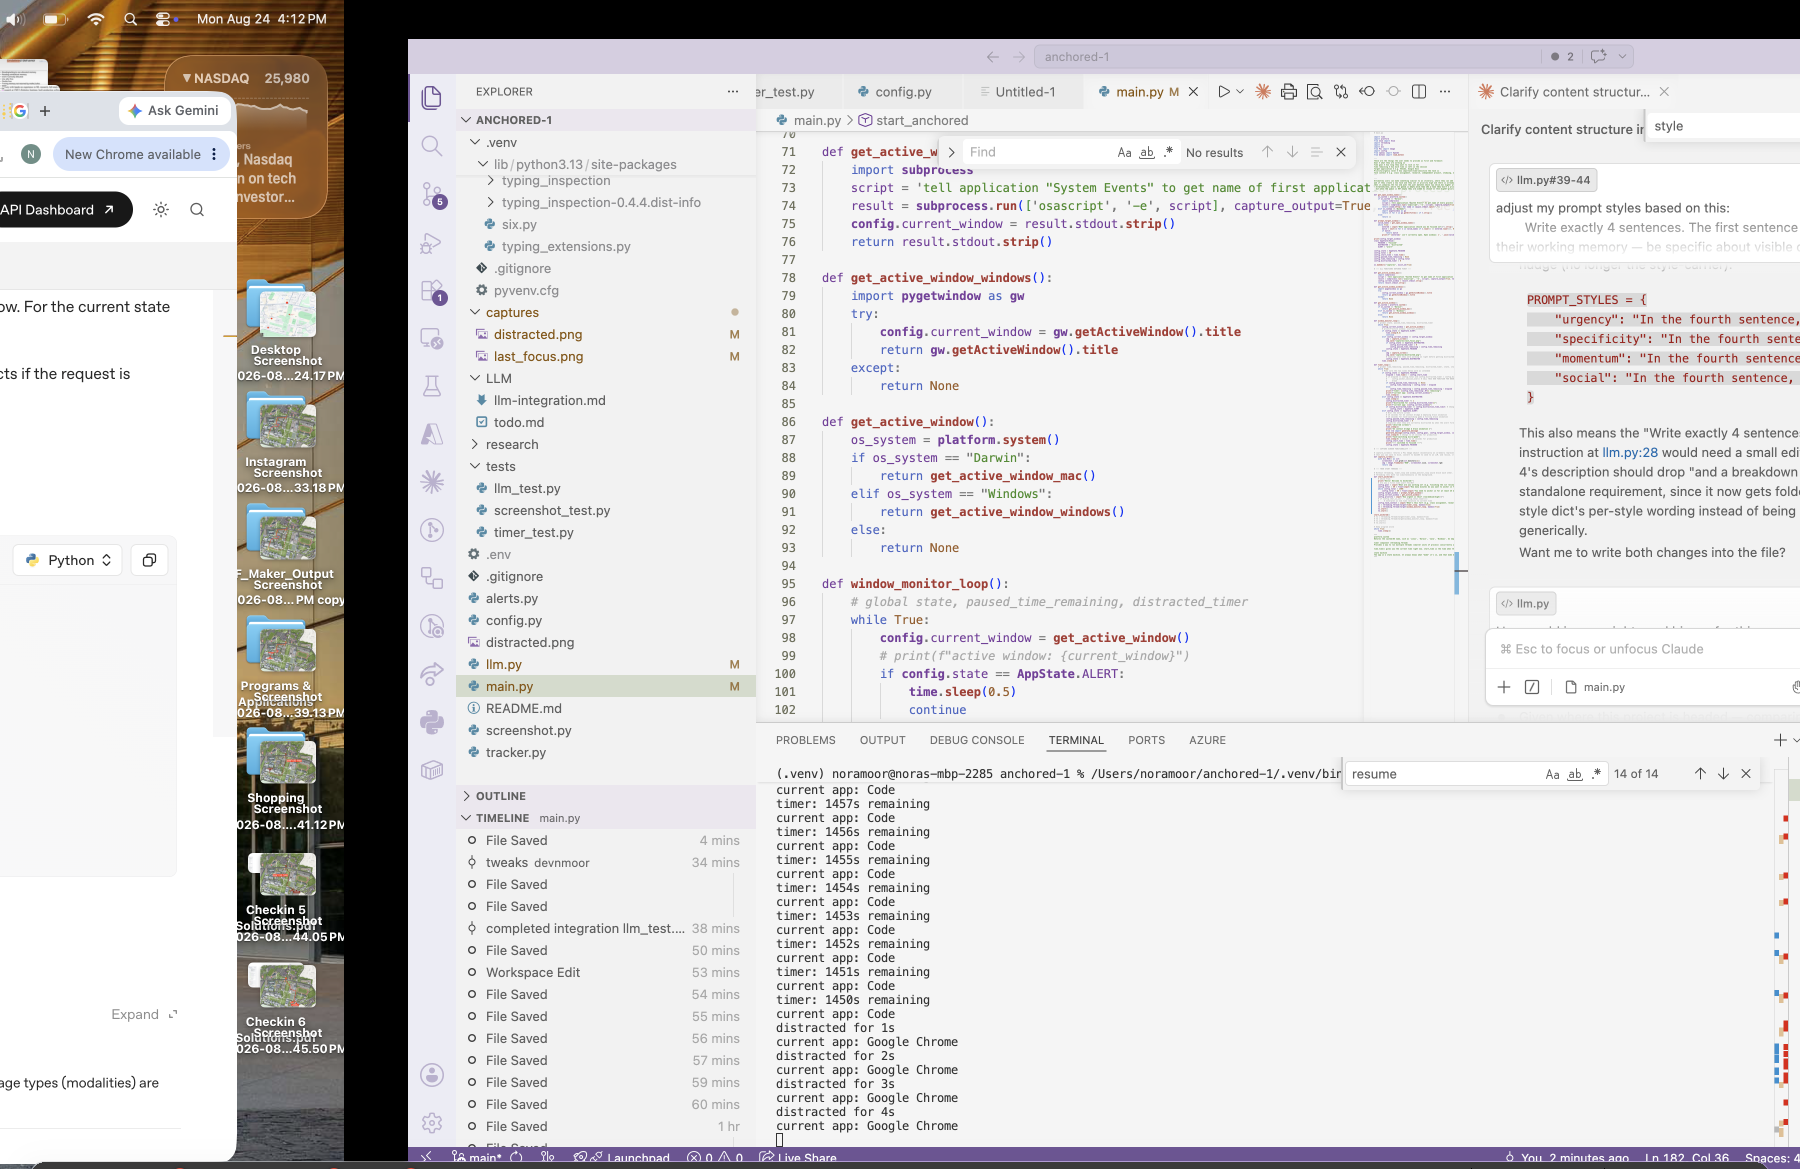
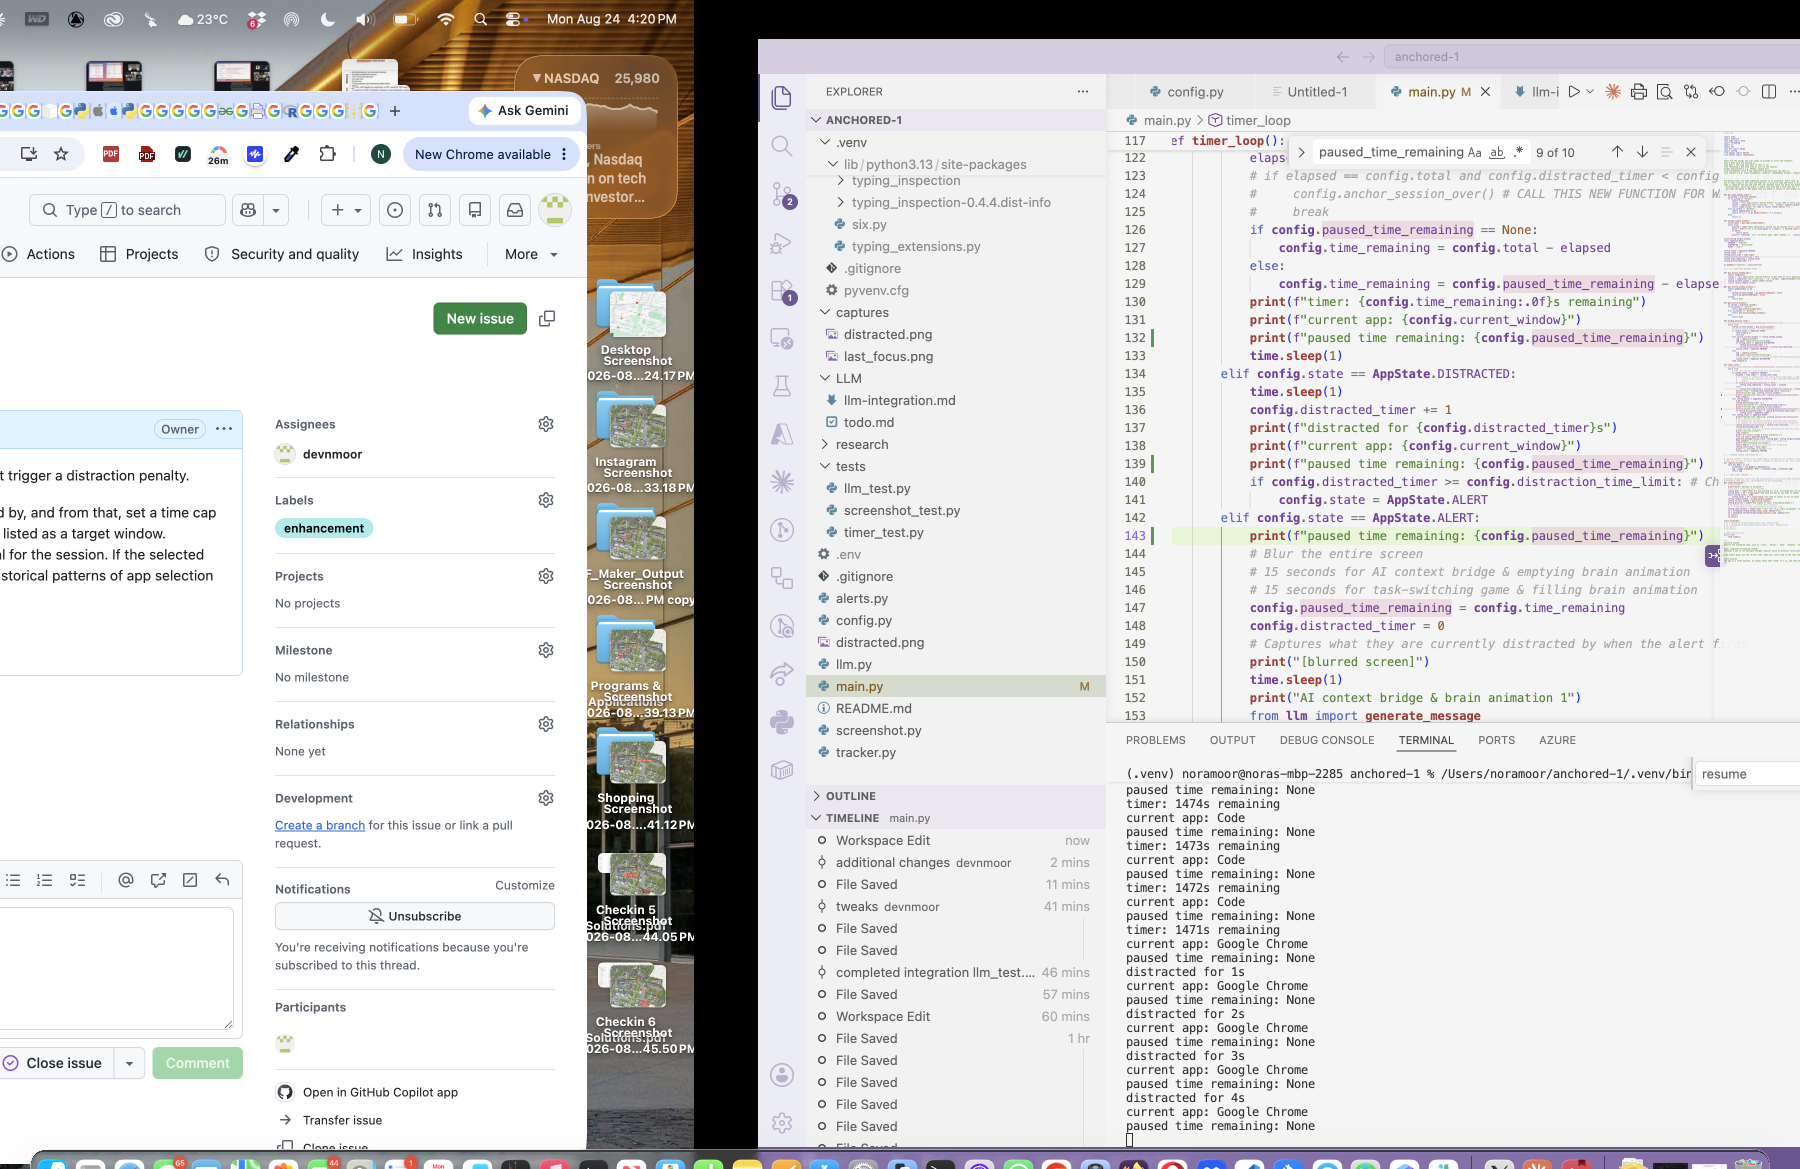
implemented AI bridge duration timer instead of a constant 5 second sleep, so that it can be used in the app and the countdown is displayed to the user on the blur screen.

diff --git a/main.py b/main.py
@@ -129,15 +129,18 @@ def timer_loop():
                 config.time_remaining = config.paused_time_remaining - elapsed
             print(f"timer: {config.time_remaining:.0f}s remaining")
             print(f"current app: {config.current_window}")
+            print(f"paused time remaining: {config.paused_time_remaining}")
             time.sleep(1)
         elif config.state == AppState.DISTRACTED:
             time.sleep(1)
             config.distracted_timer += 1
             print(f"distracted for {config.distracted_timer}s")
             print(f"current app: {config.current_window}")
+            print(f"paused time remaining: {config.paused_time_remaining}")
             if config.distracted_timer >= config.distraction_time_limit: # Change to 300 (5 minutes) for production
                 config.state = AppState.ALERT
         elif config.state == AppState.ALERT:
+            print(f"paused time remaining: {config.paused_time_remaining}")
             # Blur the entire screen
             # 15 seconds for AI context bridge & emptying brain animation
             # 15 seconds for task-switching game & filling brain animation
@@ -149,7 +152,7 @@ def timer_loop():
             print("AI context bridge & brain animation 1")
             from llm import generate_message
             generate_message(config.style, config.goal, config.target_window, config.time_remaining, config.priority, config.task_context)
-            time.sleep(5) # Change to 15 seconds for production
+            time.sleep(config.ai_bridge_duration)
             print("Task-switching micro-game")
             time.sleep(5) # Change to 15 seconds for production
             config.start_time = time.time()

diff --git a/config.py b/config.py
@@ -26,6 +26,7 @@ priority = "high"
 task_context = ""
 
 distraction_time_limit = 5 # Represents 5 minutes
+ai_bridge_duration = 15 # Seconds the AI context bridge & brain animation stays up
 
 # Search for something in string
 def char_is_in(t, input_text):
